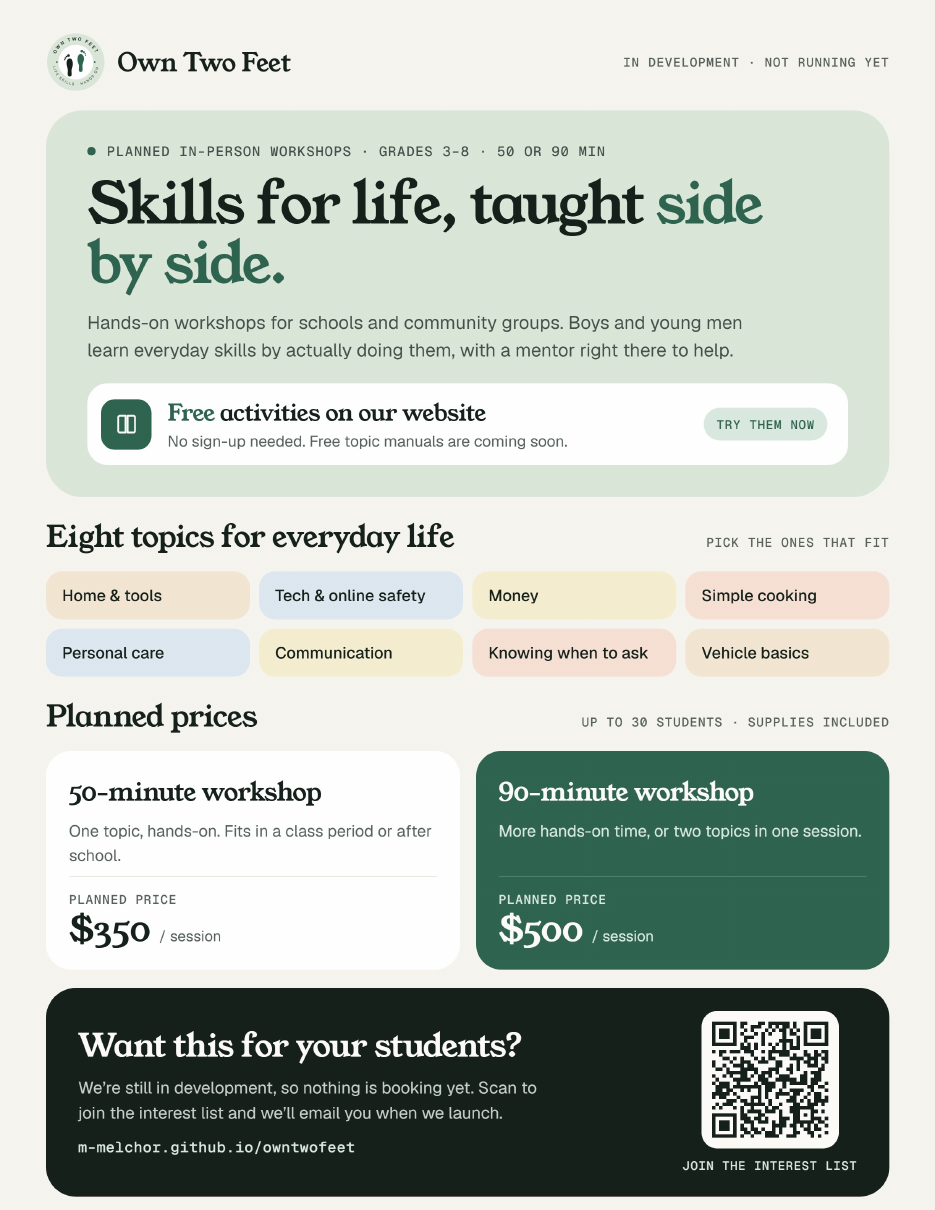
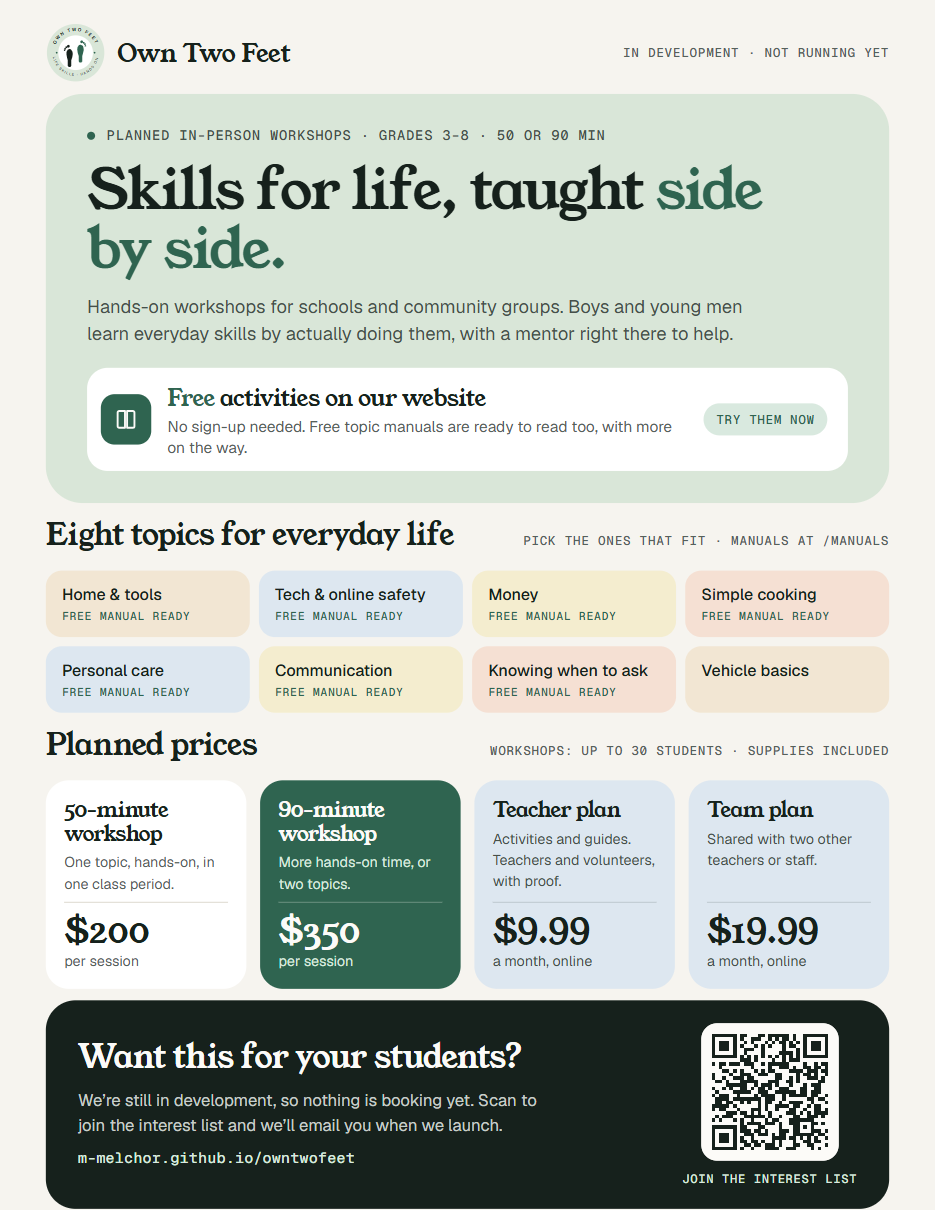
Price pivot: workshops $200 and $350, monthly plan $9.99 per teacher or $19.99 team of three, new flyer

diff --git a/index.html b/index.html
@@ -376,6 +376,7 @@ body.full #bar{visibility:hidden}
 .hc.new .label{color:#fff}
 .hc h3{font-size:44px}
 .hc .prices{display:flex;gap:40px;margin:6px 0}
+.hc .price{white-space:nowrap}
 .hc ul{list-style:none;display:flex;flex-direction:column;gap:12px;margin-top:6px}
 .hc li{font-size:21px;line-height:1.45;padding-left:28px;position:relative}
 .hc li::before{content:"";position:absolute;left:0;top:13px;width:14px;height:2px;background:currentColor}
@@ -499,11 +500,11 @@ body.full #bar{visibility:hidden}
     <div class="rings" aria-hidden="true"><div class="r1" style="--i:0">TAM</div><div class="r2" style="--i:1">SAM</div><div class="r3" style="--i:2">SOM</div></div>
     <div>
       <div class="mrows">
-        <div class="mrow" data-a><span class="k">TAM</span><div><h3><span data-count="67512">67,512</span> schools</h3><p>U.S. public elementary and middle schools</p></div><div class="usd">$23.6M<small>a year</small></div></div>
-        <div class="mrow" data-a><span class="k">SAM</span><div><h3><span data-count="6412">6,412</span> schools</h3><p>Texas public elementary and middle schools</p></div><div class="usd">$2.2M<small>a year</small></div></div>
-        <div class="mrow" data-a><span class="k">SOM</span><div><h3>10 schools</h3><p>Our year-one goal: Waco-area schools we can drive to</p></div><div class="usd">$8,400<small>a year</small></div></div>
+        <div class="mrow" data-a><span class="k">TAM</span><div><h3><span data-count="67512">67,512</span> schools</h3><p>U.S. public elementary and middle schools</p></div><div class="usd">$13.5M<small>a year</small></div></div>
+        <div class="mrow" data-a><span class="k">SAM</span><div><h3><span data-count="6412">6,412</span> schools</h3><p>Texas public elementary and middle schools</p></div><div class="usd">$1.3M<small>a year</small></div></div>
+        <div class="mrow" data-a><span class="k">SOM</span><div><h3>10 schools</h3><p>Our year-one goal: Waco-area schools we can drive to</p></div><div class="usd">$2,999<small>a year</small></div></div>
       </div>
-      <p class="src" data-a>Dollar math: one $350 workshop per school per year. SOM adds one teacher per school on the $49 membership for a 10-month school year ($490). Source: NCES Common Core of Data, 2023 to 2024, regular public schools by level.</p>
+      <p class="src" data-a>Dollar math: one $200 workshop per school per year. SOM adds one teacher per school on the $9.99 plan for a 10-month school year ($99.90). Source: NCES Common Core of Data, 2023 to 2024, regular public schools by level.</p>
     </div>
   </div>
 </section>
@@ -516,9 +517,9 @@ body.full #bar{visibility:hidden}
     <div class="line"></div>
     <div class="stage-c" data-a><div class="card"><span class="label">Part 1 idea</span><h3>A curriculum for staff</h3><div class="price">$250 to $400</div><p>Per school, per year. Staff teach it on their own.</p></div></div>
     <div class="stage-c" data-a><div class="card"><span class="label">What we tested</span><h3>In-person workshops</h3><div class="price">$350 <small>50 min</small></div><div class="price" style="margin-top:8px">$500 <small>90 min</small></div><p>Up to 30 students. Supplies included.</p></div></div>
-    <div class="stage-c now" data-a><div class="card"><span class="label">Where we’re going</span><h3>Workshops plus a membership</h3><div class="price">$49 <small>a month, per teacher</small></div><p>Online activities, printable packs and maybe monthly hands-on kits, on top of workshops.</p></div></div>
+    <div class="stage-c now" data-a><div class="card"><span class="label">Where we’re going</span><h3>Lower prices plus a monthly plan</h3><div class="price">$9.99 <small>a month, per teacher</small></div><div class="price" style="margin-top:8px">$19.99 <small>team of three</small></div><p>Workshops drop to $200 and $350. Online activities and printable guides every month.</p></div></div>
   </div>
-  <div class="fee" data-a style="margin-top:40px"><span>Card payments through Stripe: 2.9% plus 30¢, so we keep <b>$47.28</b> of every $49.</span><span>Bank transfer: 0.8%, capped at $5.</span></div>
+  <div class="fee" data-a style="margin-top:40px"><span>A $200 workshop costs us about $60 in supplies, gas and card fees, so we keep about <b>$140</b>.</span><span>Stripe takes 2.9% plus 30¢, so we keep <b>$9.40</b> of every $9.99.</span></div>
 </section>
 
 <!-- 9 Partners -->
@@ -546,7 +547,7 @@ body.full #bar{visibility:hidden}
     <div class="comp up" style="left:28%" data-a><div class="card"><h3>Botvin LifeSkills</h3><p>$265 to $645 per set</p></div></div>
     <div class="comp down" style="left:45%" data-a><div class="card"><h3>Overcoming Obstacles</h3><p>Free, K to 12</p></div></div>
     <div class="comp up" style="left:62%" data-a><div class="card"><h3>Texas Tech Today’s Life Skills</h3><p>$75, grades 7 to 12</p></div></div>
-    <div class="comp up us" style="left:89%" data-a="pop"><div class="card"><h3>Own Two Feet</h3><p>$350 workshop or $49 a month</p></div></div>
+    <div class="comp up us" style="left:89%" data-a="pop"><div class="card"><h3>Own Two Feet</h3><p>$200 workshop or $9.99 a month</p></div></div>
   </div>
   <div class="diff">
     <p data-a><b>They hand teachers a binder.</b> We bring the tools and a mentor into the room.</p>
@@ -576,7 +577,7 @@ body.full #bar{visibility:hidden}
       <div class="tabs" role="radiogroup" aria-label="Site page" data-a>
         <button role="radio" aria-checked="true" data-h="home">Home</button>
         <button role="radio" aria-checked="false" data-h="activities">Free activities</button>
-        <button role="radio" aria-checked="false" data-h="workshops">Workshops <span>$350 · $500</span></button>
+        <button role="radio" aria-checked="false" data-h="workshops">Workshops <span>$200 · $350</span></button>
         <button role="radio" aria-checked="false" data-h="story">Our story</button>
       </div>
       <button class="btn solid" id="goFull" data-a style="margin-top:auto;align-self:flex-start"><svg viewBox="0 0 24 24" fill="none" stroke="currentColor" stroke-width="2" stroke-linecap="round" stroke-linejoin="round"><path d="M4 9V4h5M20 9V4h-5M4 15v5h5M20 15v5h-5"/></svg>Full screen</button>
@@ -610,7 +611,7 @@ body.full #bar{visibility:hidden}
 <!-- 15 Flyer + conversations -->
 <section class="slide" data-label="MVP 2 and 3">
   <div class="fs">
-    <img class="flyer" src="flyer.png" alt="The Own Two Feet flyer: planned workshops for grades 3 to 8, eight topics, $350 and $500 prices, and a QR code to join the interest list">
+    <img class="flyer" src="flyer.png" alt="The Own Two Feet flyer: planned workshops for grades 3 to 8, eight topics, $200 and $350 prices, and a QR code to join the interest list">
     <div>
       <span class="label" data-a>Part 3 · MVP 2 and MVP 3</span>
       <h2 data-a style="margin-top:16px">A flyer in hand. <em style="font-style:normal;color:var(--accent)">A real conversation.</em></h2>
@@ -697,7 +698,7 @@ body.full #bar{visibility:hidden}
     </ul></div>
     <div class="lc no" data-a><span class="label" style="color:var(--bad)">Not proven yet</span><h3>Paying for it</h3><ul>
       <li>9 real sign-ups from 110 visits is 8.2%, under our 10% goal.<small>GoatCounter and Formspree</small></li>
-      <li>That a school will pay $350 to $500 a session. Nothing is booking yet, and the site says so.</li>
+      <li>That a school will pay $200 to $350 a session. Nothing is booking yet, and the site says so.</li>
       <li>How often a school would bring us back in a year.</li>
     </ul></div>
     <div class="lc ch" data-a><span class="label">What changed our plan</span><h3>Our own limits</h3><ul>
@@ -714,7 +715,7 @@ body.full #bar{visibility:hidden}
   <h2 class="title" data-a>We’re going to <em>pivot.</em></h2>
   <div class="ipa">
     <div data-a><span class="label">Not this</span><h3>Iterate</h3><p>Keep only workshops and tweak them. Still needs us in the room every week.</p></div>
-    <div class="pick" data-a><span class="label">Our call</span><h3>Pivot</h3><p>Keep workshops and add a classroom membership teachers run on their own.</p></div>
+    <div class="pick" data-a><span class="label">Our call</span><h3>Pivot</h3><p>Keep workshops and add a monthly online plan teachers run on their own.</p></div>
     <div data-a><span class="label">Not this</span><h3>Abandon</h3><p>The need is real. Our interviews show it’s worth solving.</p></div>
   </div>
   <span class="label" data-a style="margin-top:64px;display:block">Why the pivot works</span>
@@ -731,13 +732,13 @@ body.full #bar{visibility:hidden}
   <h2 class="title" data-a style="margin-bottom:34px">In person when it counts.<br><em>In class every week.</em></h2>
   <div class="hyb">
     <div class="hc keep" data-a><span class="label">We keep</span><h3>In-person workshops</h3>
-      <div class="prices"><div class="price">$350 <small>50 min</small></div><div class="price">$500 <small>90 min</small></div></div>
+      <div class="prices"><div class="price">$200 <small>50 min</small></div><div class="price">$350 <small>90 min</small></div></div>
       <ul><li>Up to 30 students, supplies included</li><li>Real tools, a mentor in the room</li><li>The kickoff that gets a class excited</li></ul>
-      <p class="foot">Booked per session by the school, church or sponsor.</p></div>
-    <div class="hc new" data-a><span class="label">We add</span><h3>Classroom membership</h3>
-      <div class="prices"><div class="price">$49 <small>a month, per teacher</small></div></div>
-      <ul><li>Online activities on the smartboard or student devices</li><li>Printable packs the school prints in-house</li><li>Maybe a monthly hands-on kit, once we test it</li></ul>
-      <p class="foot">Priced per classroom, so one teacher can start without a district contract.</p></div>
+      <p class="foot">Down from $350 and $500 after visitors told us it cost too much.</p></div>
+    <div class="hc new" data-a><span class="label">We add</span><h3>Monthly online plan</h3>
+      <div class="prices"><div class="price">$9.99 <small>per teacher</small></div><div class="price">$19.99 <small>team of three</small></div></div>
+      <ul><li>Online activities on the smartboard or student devices</li><li>Printable guides the school prints in-house</li><li>About $4 per student for the school year</li></ul>
+      <p class="foot">For teachers and volunteers who show proof. Low-income schools and groups go first.</p></div>
   </div>
 </section>
 
@@ -747,7 +748,7 @@ body.full #bar{visibility:hidden}
   <h2 class="big" data-a style="font-size:110px">Thank you.</h2>
   <div class="next">
     <div data-a><span class="label">Next 1</span><p>Build monthly online activities first. It was the top “best fit” answer.</p></div>
-    <div data-a><span class="label">Next 2</span><p>Pilot the membership with teachers already on our list.</p></div>
+    <div data-a><span class="label">Next 2</span><p>Pilot the monthly plan with teachers already on our list.</p></div>
     <div data-a><span class="label">Next 3</span><p>Book our first Waco-area workshops and turn on payments.</p></div>
   </div>
   <button class="btn solid" id="endLive" data-a><svg viewBox="0 0 24 24" fill="none" stroke="currentColor" stroke-width="2" stroke-linecap="round" stroke-linejoin="round"><path d="M5 12h14M13 6l6 6-6 6"/></svg>Visit Own Two Feet</button>
